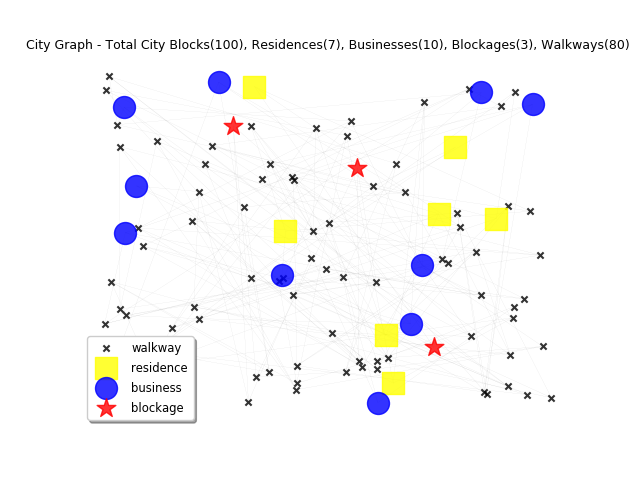
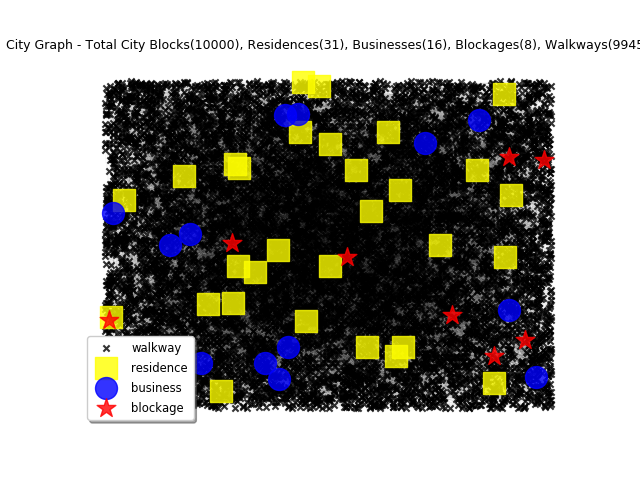
Swicthed the shortest path algorithm to just return one shortest path instead of all.
And made related adjustments.

This allows us to run faster and more simulations. Also does not block us from simulating on a big city.

Tested with city size 250 - works fast enough.

Also added pedestrian size as a simulation variable.

diff --git a/ped_collisions.py b/ped_collisions.py
@@ -15,84 +15,72 @@ import random
 import networkx as nx
 from beautifultable import BeautifulTable
 
+from typing import Tuple
 
-def query_number_pedestrians(grid_size):
+
+def query_number_pedestrians(grid_size) -> Tuple[int, int]:
     """
     Function to query user for number of pedestrians to use for the simulation
     :return: integer greater than 0
     """
     while True:
-        num_peds = input("How many pedestrians for this simulation?")
+        min_num_peds = input("Simulation Variable:\tMinimum pedestrians for this simulation: ")
+        max_num_peds = input("Simulation Variable:\tMaximum pedestrians for this simulation: ")
         try:
-            int(num_peds)
-            if int(num_peds) >= 1 and int(num_peds) <= grid_size / 2:
-                return (int(num_peds))
+            int(min_num_peds)
+            int(max_num_peds)
+
+            if 1 <= int(min_num_peds) <= int(max_num_peds) <= grid_size * grid_size:
+                return int(min_num_peds), int(max_num_peds)
                 break
             else:
                 print("Invalid response. You have either select a number less than 1 or have an insufficient grid "
-                      "size\n \
-                for this number of pedestrians. The number of pedestrians cannot exceed the number of residences \n \
-                to serve as starting positions (common in small grids).")
+                      "size for this number of pedestrians.")
         except:
             print("Invalid response. Try again.")
 
 
-def query_size_grid():
+def query_size_grid() -> int:
     """
     Function to query user for size of city grid to use for the simulation
     :return: integer greater than 0 and less than/equal to 40
     """
     while True:
-        size_grid = input("What size city grid to use for the simulation (select a number between 10 and 40):")
+        size_grid = input("Fixed:\tSize of city grid to use for the simulation: ")
         try:
             int(size_grid)
-            if int(size_grid) >= 10 and int(size_grid) <= 40:
-                return (int(size_grid))
+            if 10 <= int(size_grid):
+                return int(size_grid)
                 break
             else:
-                print("Invalid response. Select a number between 10 and 40")
+                print("Invalid response. Please select a size >= 10 for good simulation")
         except:
             print("Invalid response. Try again.")
 
 
-def query_number_simulations():
+def query_number_simulations() -> int:
     """
     Function to query user for number of simulations to run
     :return: integer greater than 0
     """
     while True:
-        size_grid = input("How many simulations to run?")
+        num_simuls = input("Fixed:\tNumber of simulations to run: ")
         try:
-            int(size_grid)
-            if int(size_grid) >= 1:
-                return (int(size_grid))
+            int(num_simuls)
+            if int(num_simuls) >= 1:
+                return int(num_simuls)
                 break
             else:
-                print("Invalid response. Select a number greater than 0")
+                print("Invalid response.")
         except:
             print("Invalid response. Try again.")
-
-
-def intersect_count(count_dict, node_object, node_position):
-    try:
-        count_dict[node_object]["total_count"] += 1
-    except KeyError:
-        count_dict[node_object] = {
-            "total_count": 1,
-            "position_collisions": {}
-        }
-    try:
-        count_dict[node_object]["position_collisions"][node_position] += 1
-    except KeyError:
-        count_dict[node_object]["position_collisions"][node_position] = 1
-    return count_dict
 
 
 def run_simulation(city, num_peds):
     pedestrians = Pedestrian.generate_random_pedestrians(num_peds, city)
 
     """
-    Finally, we create a count of how many times a node (CityLocation object) appears in 
+    We create a count of how many times a node (CityLocation object) appears in 
     the shortest simple paths of pedestrians, indicating a "hot spot" in the grid. We also
     examine the number of times that a node is occupied by a pedestrian
     on a path at the "same time," i.e. in the same index position in a pathway, as another
@@ -103,16 +91,18 @@ def run_simulation(city, num_peds):
     intersect_dict = {}
 
     for ped in pedestrians:
-        for short_path in ped.list_short_paths:
-            node_position = 1
-            for short_path_node in short_path[1:-1]:
-                intersect_dict = intersect_count(intersect_dict, short_path_node, node_position)
-                node_position += 1
+        shortest_path = ped.shortest_path
+        node_position = 1
+        for short_path_node in shortest_path[1:-1]:
+            count = intersect_dict.get(short_path_node, 0)
+            intersect_dict[short_path_node] = count + 1
+            node_position += 1
 
-    return sorted(intersect_dict.items(), key=lambda x: x[1]["total_count"], reverse=True)
+    return sorted(intersect_dict.items(), key=lambda x: x[1], reverse=True)
 
 
-def print_outtable(results_dict, grid_size):
+def print_outtable(simulation_summary, grid_size):
+    print("\nSimulation Summary\n")
     """
     A helper function to pretty print a table of results
     :param results_dict:
@@ -120,52 +110,72 @@ def print_outtable(results_dict, grid_size):
     :return: None (prints ASCII table)
     """
     table = BeautifulTable()
-    table.column_headers = ["Simulation Number", "City Grid Size", "Number Pedestrians", "Top Location Node",
-                            "Number of Times Node in a Pedestrian Path",
+    table.column_headers = ["City Grid Size", "Number of Simulations", "Number of Pedestrians", "Top Location Node",
                             "Highest Number of Pedestrian Collisions for Node"]
-    for result in results_dict:
-        table.append_row([str(result), str(grid_size), str(results_dict[result]["Pedestrians"]),
-                          str(results_dict[result]["Top_Location"]), str(results_dict[result]["Number_Intersections"]),
-                          str(results_dict[result]["Number_Collisions"])])
+
+    max_collisions = 0
+    top_place = None
+
+    print(simulation_summary)
+    for simulation_number in simulation_summary:
+        pedestrian_report = simulation_summary[simulation_number]
+        for pedestrian_count in pedestrian_report:
+            collisions = pedestrian_report[pedestrian_count]["Number_Collisions"]
+            if collisions >= max_collisions:
+                top_place = pedestrian_report[pedestrian_count]["Top_Location"]
+            table.append_row(
+                [str(grid_size), str(simulation_number), str(pedestrian_report[pedestrian_count]["Pedestrians"]),
+                 str(pedestrian_report[pedestrian_count]["Top_Location"]),
+                 str(pedestrian_report[pedestrian_count]["Number_Collisions"])])
+
     print(table)
+
+    print("\nThe top location for pedestrian traffic is located at the node located at {} with {} collisions.\n".format(
+        top_place, max_collisions))
 
 
 def main():
-    simulation_summary = {}  # Container for all results summary
+    size = query_size_grid()  # Query user for size of city grid
 
     num_simuls = query_number_simulations()  # Query user for number of simulations to run
 
-    size = query_size_grid()  # Query user for size of city grid
-
-    num_peds = query_number_pedestrians(size)  # Query user for number of pedestrians
+    (min_num_peds, max_num_peds) = query_number_pedestrians(size)  # Query user for number of pedestrians
 
     city = City.generate_random_city(size, size)  # Build the city network
 
-    print("Here is the generated city grid that will be tested:")
+    print("\nHere is the randomly generated city grid that will be used for simulation (also saved as city.png):\n")
 
     city.print(True, True)  # Display city network
 
-    while num_simuls > 0:  # Run simulations and record results
-        results_list = run_simulation(city, num_peds)
-        if results_list:
-            top_collision_count_list = sorted(results_list[0][1]["position_collisions"].items(), key=lambda x: x[1],
-                                              reverse=True)
-            top_collision_count = top_collision_count_list[0][1]
-            simulation_summary[num_simuls] = {
-                "Pedestrians": num_peds,
-                "City": city,
-                "Top_Location": results_list[0][0],
-                "Number_Intersections": results_list[0][1]["total_count"],
-                "Number_Collisions": top_collision_count
-            }
-        else:
-            break
-        num_simuls -= 1
+    simulation_summary = {}  # Container for all results summary
+    simulation = 1
+    while simulation <= num_simuls:  # Run simulations and record results
+
+        print("Running simulation {}".format(simulation))
+
+        pedestrian_summary = {}
+        for num_peds in range(min_num_peds, max_num_peds + 1):
+
+            print("Number of pedestrians is {}".format(num_peds))
+
+            intersection_list = run_simulation(city, num_peds)
+
+            if intersection_list:
+                pedestrian_summary[num_peds] = {
+                    "Pedestrians": num_peds,
+                    "City": city,
+                    "Top_Location": intersection_list[0][0],
+                    "Number_Collisions": intersection_list[0][1]
+                }
+            else:
+                break
+        simulation_summary[simulation] = pedestrian_summary
+        simulation += 1
 
     print_outtable(simulation_summary, size)
-    top_place = sorted(simulation_summary.items(), key=lambda x: x[1]["Number_Intersections"], reverse=True)[0]
-    print("The top location for pedestrian traffic is located at the node located \n \
-     at lat-long {}".format(top_place[1]["Top_Location"].location))
+
+    simulation_reports = []
+    simulation_reports.extend([report for report in simulation_summary.values()])
 
 
 if __name__ == main():

diff --git a/pedestrian.py b/pedestrian.py
@@ -1,6 +1,6 @@
 import random
+from typing import List
 
-import matplotlib.pyplot as plt
 import networkx as nx
 
 from city import (CityLocation,
@@ -31,27 +31,30 @@ class PedestrianCommute(object):
 
 class Pedestrian(object):
 
-    def __init__(self, name: str, city: City, start_location: CityLocation, destination: CityLocation,
-                 list_short_paths):
+    def __init__(self, name: str, city: City, start_location: CityLocation, destination: CityLocation, shortest_path):
         self.name = name
         self.city = city
         self.pedestrian_commute = PedestrianCommute(start_location, destination)
-        self.list_short_paths = list_short_paths
+        self.shortest_path = shortest_path
 
     @classmethod
     def filter_locations(cls, city_graph: nx.Graph, location_checker):
         return [location for location in city_graph.nodes() if location_checker(location)]
 
     @classmethod
-    def generate_random_pedestrians(cls, num_peds, city: City) -> list:
+    def filter_locations(cls, city: City, filter_criteria):
+        return [location for location in city.city_graph if filter_criteria(location)]
+
+    @classmethod
+    def generate_random_pedestrians(cls, num_peds, city: City) -> List:
 
         """
-            For pedestrian start origins, we randomly select, without replacement, n number of residences from city
-            grid,
-            one for each pedestrian
-            """
+        For pedestrian start origins, we randomly select, without replacement, n number of residences or walkways 
+        from city grid, one for each pedestrian
+        """
 
-        res_nodes = [i for i in city.city_graph.nodes() if CityLocation.is_residence(i) == True]
+        res_nodes = cls.filter_locations(city, lambda location: CityLocation.is_residence(
+            location) or CityLocation.is_walkway(location))
 
         try:
             start_nodes = random.sample(res_nodes, num_peds)
@@ -60,13 +63,18 @@ class Pedestrian(object):
             return None
 
         """
-        For destinations, we randomly select, without replacement, n number of businesses from city grid,
+        For destinations, we randomly select, without replacement, n number of businesses or walkway from city grid,
         one for each pedestrian
         """
 
-        business_nodes = [j for j in city.city_graph.nodes() if CityLocation.is_business(j) == True]
+        business_nodes = cls.filter_locations(city, lambda location: CityLocation.is_business(
+            location) or CityLocation.is_walkway(location))
 
-        end_nodes = random.sample(business_nodes, num_peds)
+        try:
+            end_nodes = random.sample(business_nodes, num_peds)
+        except ValueError:
+            print("Sorry, the city grid size is not sufficiently large for this number of pedestrians.")
+            return None
 
         combined_nodes = zip(start_nodes, end_nodes)
 
@@ -84,17 +92,33 @@ class Pedestrian(object):
         """
         We now initiate all of our pedestrians, assigning each one of the random pairs of start/end points
         and using that to construct a generator of all shortest paths for each pedestrian
-
+    
         """
 
         pedestrians = []
+        path_cache = dict()
         ped_num = 1
         for start, end in combined_nodes:
-            pedestrians.append(
-                Pedestrian("Ped" + str(ped_num), city, start, end, nx.all_shortest_paths(city_unblocked, start, end)))
+            if num_peds <= 5:
+                print(
+                    "Calculating shortest paths for pedestrian {}, that has to go from {}  to {}".format(ped_num, start,
+                                                                                                         end))
+            commute = PedestrianCommute(start, end)
+            pedestrians.append(Pedestrian("Ped" + str(ped_num), city, start, end,
+                                          cls.get_shortes_path(city_unblocked, commute, path_cache)))
             ped_num += 1
 
         return pedestrians
+
+    @classmethod
+    def get_shortes_path(cls, city_graph: nx.Graph, commute: PedestrianCommute, path_cache: dict) -> list:
+        path = path_cache.get(commute, None)
+
+        if path is None:
+            path = nx.shortest_path(city_graph, commute.start_location, commute.destination)
+            path_cache[commute] = path
+
+        return path
 
 
 def __str__(self) -> str:

diff --git a/city.py b/city.py
@@ -124,6 +124,8 @@ class City:
     @classmethod
     def generate_random_city(cls, rows: int, columns: int):
 
+        print("Generating random city")
+
         city_grid = []
         for row in range(0, rows):
             row_list = []
@@ -231,4 +233,4 @@ class City:
 
             plt.axis('off')
             plt.savefig("city.png")  # save as png
-            plt.show()
+            plt.show(block=False)
